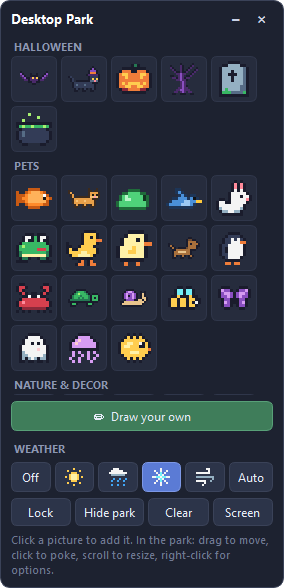
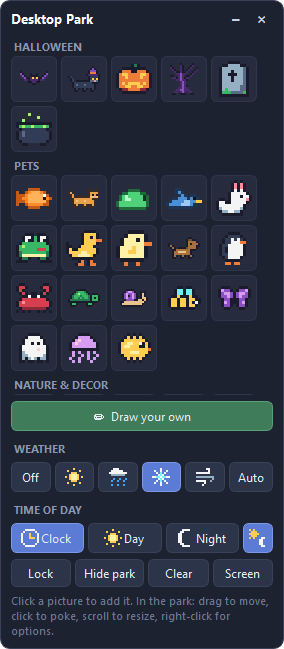
Time of day on the board and the folded bar
A Time of day row under Weather (Clock / Day / Night and a sun-and-moon
switch) and a clock dropdown on the folded bar, kept in step with the tray
menu.

diff --git a/board.py b/board.py
@@ -19,6 +19,8 @@ from sprites import frame_image
 COLS = 5
 SLOT = 46
 ICON = QSize(18, 18)
+TIME_ICONS = {"clock": "clock", "day": "sun", "night": "moon"}
+TIME_TEXT = {"clock": "Clock", "day": "Day", "night": "Night"}
 
 # What the board says and shows in each look.
 LOOK = {
@@ -93,6 +95,8 @@ class Board(QWidget):
     clear_park = Signal()
     weather_changed = Signal(str)
     weather_auto = Signal(bool)
+    time_mode_changed = Signal(str)
+    show_sky_toggled = Signal(bool)
     update_open = Signal()
     update_later = Signal()
     moved = Signal()
@@ -141,6 +145,9 @@ class Board(QWidget):
         self.quick_weather = _square("clear", "Weather", name="quick", size=30)
         self.quick_weather.setPopupMode(QToolButton.InstantPopup)
         self.quick_weather.setMenu(self._weather_menu())
+        self.quick_time = _square("clock", "Time of day", name="quick", size=30)
+        self.quick_time.setPopupMode(QToolButton.InstantPopup)
+        self.quick_time.setMenu(self._time_menu())
         self.quick_hide = _square("eye", "Hide the park", name="quick", size=30, checkable=True)
         self.quick_hide.toggled.connect(self._hide)
         self.quick_lock = _square("lock", "Lock: clicks go through everything in the park",
@@ -152,7 +159,7 @@ class Board(QWidget):
         self.quick_update.clicked.connect(self.update_open.emit)
         self.quick_update.hide()
         q.addWidget(_sep())
-        for w in (self.quick_weather, self.quick_hide, self.quick_lock, self.quick_update):
+        for w in (self.quick_weather, self.quick_time, self.quick_hide, self.quick_lock, self.quick_update):
             q.addWidget(w)
         q.addWidget(_sep())
         self.quick.hide()
@@ -223,6 +230,24 @@ class Board(QWidget):
         wrow.addWidget(self.auto_btn, 1)
         body.addLayout(wrow)
 
+        self.time_label = QLabel(objectName="section")
+        body.addWidget(self.time_label)
+        trow = QHBoxLayout()
+        trow.setSpacing(4)
+        self.time_btns = {}
+        for mode in daycycle.MODES:
+            b = _button(TIME_TEXT[mode], daycycle.LABELS[mode], checkable=True)
+            b.setIcon(_ui_icon(TIME_ICONS[mode]))
+            b.setIconSize(ICON)
+            b.clicked.connect(lambda _=False, m=mode: self._pick_time(m))
+            trow.addWidget(b, 1)
+            self.time_btns[mode] = b
+        self.sky_btn = _square("sky", "Show the sun and moon crossing the sky", name="wbtn",
+                               size=34, checkable=True)
+        self.sky_btn.toggled.connect(self._sky)
+        trow.addWidget(self.sky_btn)
+        body.addLayout(trow)
+
         self.park_label = QLabel(objectName="section")
         body.addWidget(self.park_label)
         row = QHBoxLayout()
@@ -260,6 +285,7 @@ class Board(QWidget):
         self.draw_btn.setIcon(_ui_icon("pencil") if icons else QIcon())
         self.draw_btn.setIconSize(ICON)
         self.weather_label.setText("WEATHER" if not icons else "Weather")
+        self.time_label.setText("TIME OF DAY" if not icons else "Time of day")
         self.park_label.setText("PARK" if not icons else "Park")
         self.park_label.setVisible(icons)          # the original look had no "Park" heading
         self.clear_btn.setText(look["clear"])
@@ -280,6 +306,9 @@ class Board(QWidget):
         for b in self.weather_btns.values():
             b.setFixedHeight(34 if icons else 30)
         self.auto_btn.setFixedHeight(34 if icons else 30)
+        for b in self.time_btns.values():
+            b.setFixedHeight(34 if icons else 30)
+        self.sky_btn.setFixedSize(34 if icons else 30, 34 if icons else 30)
         self.draw_btn.setFixedHeight(34 if icons else 30)
         self.hint.setText(look["hint"])
         self.set_locked(self._locked)
@@ -401,6 +430,45 @@ class Board(QWidget):
             a.setChecked(k == kind)
         self.quick_weather.setIcon(_ui_icon(kind if kind in artmod.WEATHER_ICONS else "clear"))
         self.quick_weather.setToolTip("Weather: %s" % weathermod.LABELS.get(kind, kind))
+
+    # -- time of day -----------------------------------------------------------
+    def _time_menu(self):
+        menu = QMenu(self)
+        group = QActionGroup(menu)
+        self._time_actions = {}
+        for mode in daycycle.MODES:
+            a = menu.addAction(_ui_icon(TIME_ICONS[mode]), daycycle.LABELS[mode])
+            a.setCheckable(True)
+            group.addAction(a)
+            a.triggered.connect(lambda _=False, m=mode: self._pick_time(m))
+            self._time_actions[mode] = a
+        menu.addSeparator()
+        self._sky_action = menu.addAction(_ui_icon("sky"), "Show sun && moon")
+        self._sky_action.setCheckable(True)
+        self._sky_action.triggered.connect(self._sky)
+        return menu
+
+    def _pick_time(self, mode):
+        self.set_time_mode(mode)
+        self.time_mode_changed.emit(mode)
+
+    def set_time_mode(self, mode):
+        for m, b in self.time_btns.items():
+            b.setChecked(m == mode)
+        for m, a in self._time_actions.items():
+            a.setChecked(m == mode)
+        self.quick_time.setIcon(_ui_icon(TIME_ICONS.get(mode, "clock")))
+        self.quick_time.setToolTip("Time of day: %s" % daycycle.LABELS.get(mode, mode))
+
+    def _sky(self, on):
+        self.set_show_sky(on)
+        self.show_sky_toggled.emit(bool(on))
+
+    def set_show_sky(self, on):
+        for b in (self.sky_btn, self._sky_action):
+            b.blockSignals(True)
+            b.setChecked(bool(on))
+            b.blockSignals(False)
 
     def set_weather_auto(self, on):
         for b in (self.auto_btn, self._auto_action):

diff --git a/desktop_park.py b/desktop_park.py
@@ -81,6 +81,8 @@ class App:
         self.board.closed.connect(self._board_closed)
         self.board.weather_changed.connect(self.set_weather)
         self.board.weather_auto.connect(self.set_weather_auto)
+        self.board.time_mode_changed.connect(self.set_time_mode)
+        self.board.show_sky_toggled.connect(self.set_show_sky)
         self.board.update_open.connect(self.open_update)
         self.board.update_later.connect(self.skip_update)
         area = screen.availableGeometry()
@@ -96,6 +98,8 @@ class App:
         self.set_locked(self.data["locked"])
         self.set_weather(self.data["weather"])
         self.set_weather_auto(self.data["weather_auto"])
+        self.board.set_time_mode(self.data["time_mode"])
+        self.board.set_show_sky(self.data["show_sky"])
         self.set_hidden(self.data["hidden"])
         self.board.show()
         screen.availableGeometryChanged.connect(self._screen_resized)
@@ -258,11 +262,13 @@ class App:
         self.data["time_mode"] = mode if mode in daycycle.MODES else "clock"
         for m, a in self.time_actions.items():
             a.setChecked(m == self.data["time_mode"])
+        self.board.set_time_mode(self.data["time_mode"])
         self.save_soon()
 
     def set_show_sky(self, on):
         self.data["show_sky"] = bool(on)
         self.sky_action.setChecked(self.data["show_sky"])
+        self.board.set_show_sky(self.data["show_sky"])
         self.weather.update()
         self.save_soon()
 

diff --git a/tests/test_board.py b/tests/test_board.py
@@ -181,5 +181,28 @@ class LookTests(unittest.TestCase):
         self.assertEqual(store.clean({"theme": "neon"})["theme"], "modern")
 
 
+@unittest.skipIf(QApplication is None, "PySide6 not installed")
+class TimeOfDayTests(unittest.TestCase):
+    @classmethod
+    def setUpClass(cls):
+        cls.app = QApplication.instance() or QApplication([])
+
+    def test_board_and_folded_bar_stay_in_step(self):
+        import board
+        import sprites
+        b = board.Board(sprites.Library([]))
+        got = []
+        b.time_mode_changed.connect(lambda m: got.append(("time", m)))
+        b.show_sky_toggled.connect(lambda on: got.append(("sky", on)))
+        b.time_btns["night"].click()
+        self.assertTrue(b._time_actions["night"].isChecked())
+        self.assertFalse(b.time_btns["clock"].isChecked())
+        b._time_actions["day"].trigger()                     # from the folded bar's menu
+        self.assertTrue(b.time_btns["day"].isChecked())
+        b.sky_btn.click()
+        self.assertEqual(b._sky_action.isChecked(), b.sky_btn.isChecked())
+        self.assertEqual(got, [("time", "night"), ("time", "day"), ("sky", b.sky_btn.isChecked())])
+
+
 if __name__ == "__main__":
     unittest.main()

diff --git a/art.py b/art.py
@@ -424,6 +424,39 @@ WEATHER_ICONS = {
 
 # Icons for the folded board's quick buttons (same palette as the weather ones).
 UI_ICONS = {
+    "clock": [
+        "..wwwww..",
+        ".w.....w.",
+        "w...y...w",
+        "w...y...w",
+        "w...yyy.w",
+        "w.......w",
+        "w.......w",
+        ".w.....w.",
+        "..wwwww..",
+    ],
+    "moon": [
+        "...wwww..",
+        "..ww.....",
+        ".ww......",
+        ".ww......",
+        ".ww......",
+        ".ww......",
+        ".ww......",
+        "..ww.....",
+        "...wwww..",
+    ],
+    "sky": [
+        "y.y......",
+        ".yyy.....",
+        "yyyyy....",
+        ".yyy.....",
+        "y.y...ww.",
+        ".....ww..",
+        ".....ww..",
+        ".....ww..",
+        "......ww.",
+    ],
     "pencil": [
         ".......pp",
         "......ypp",

diff --git a/README.md b/README.md
@@ -70,9 +70,10 @@ evening):
   real time, with a sun or moon next to it.
 
 It never darkens your screen - only the park itself changes. To see night any
-time, right-click the fish in the tray and pick **Time of day > Always night**
-(or **Always day**, or **Follow my clock**, the default). **Show sun & moon** in
-the same menu hides the sky if you'd rather not have it.
+time, use the **Time of day** buttons on the board: **Clock** (follow my clock,
+the default), **Day** or **Night**. The little sun-and-moon button next to them
+shows or hides the sky. The same choices are on the folded bar (the clock
+button) and in the tray menu.
 
 **Halloween:** a bat, a witch cat, jack-o'-lanterns, a spooky tree, a
 gravestone and a bubbling cauldron are on the board all year. In October
@@ -104,10 +105,11 @@ run it from source (below).
 - **Resize:** scroll the mouse wheel over a thing.
 - **Options:** right-click a thing to change how it moves, its size, turn it
   around, bring it to the front, copy, edit or remove it.
-- **Weather:** the buttons under WEATHER on the board: off (the grey cloud),
-  Sunny, Rain, Snow, Windy, and **Auto** to let it change by itself every few
-  minutes. Also in the tray menu and on the folded bar. Weather never
-  catches the mouse.
+- **Weather:** the buttons under WEATHER on the board: Off, Sunny, Rain,
+  Snow, Windy, and **Auto** to let it change by itself every few minutes.
+  Also in the tray menu and on the folded bar. Weather never catches the mouse.
+- **Time of day:** **Clock** follows your computer's clock; **Day** and
+  **Night** keep it that way. The sun-and-moon button shows or hides the sky.
 - **Two monitors?** Press **Screen** on the board (or **Screen** in the tray
   menu) and pick where the park lives. Everything keeps its place, pets on
   the ground stay on the ground, and the choice is remembered. If that
